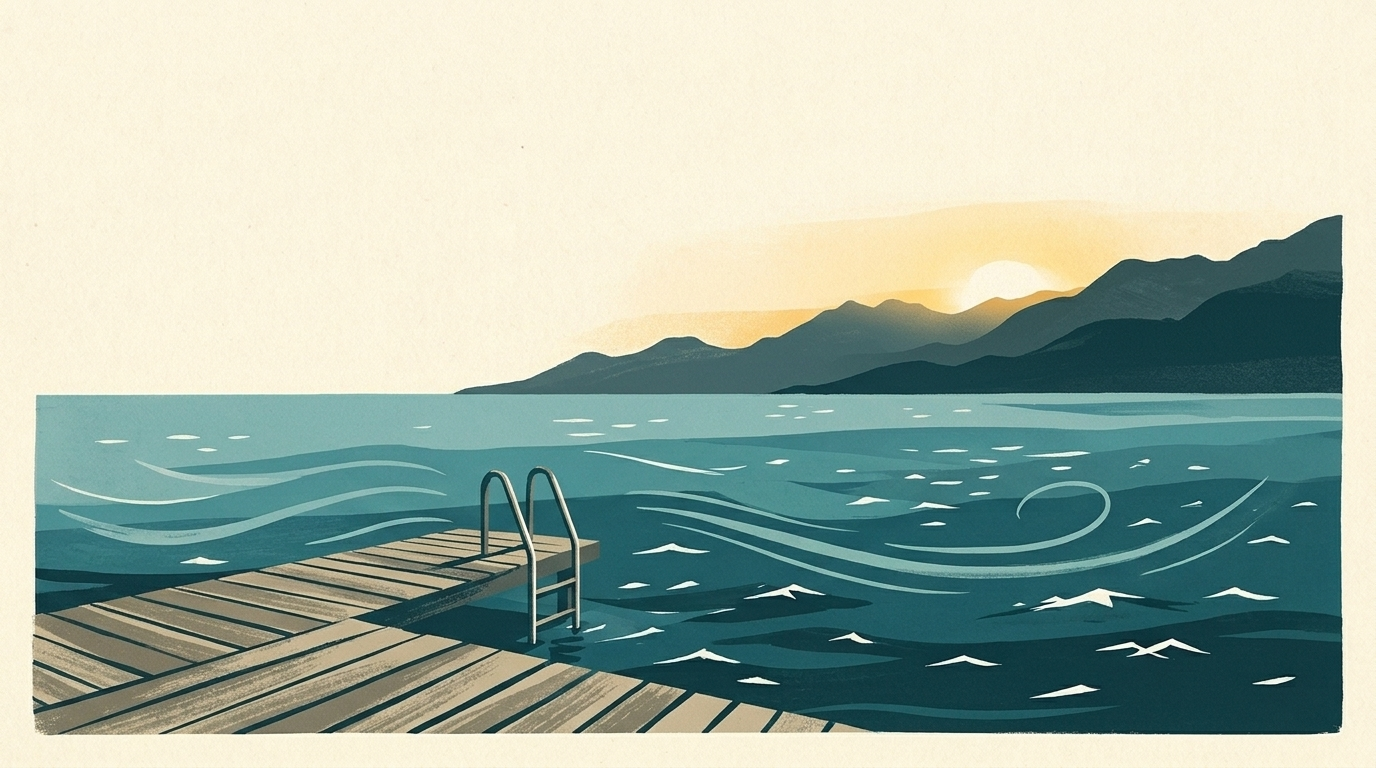
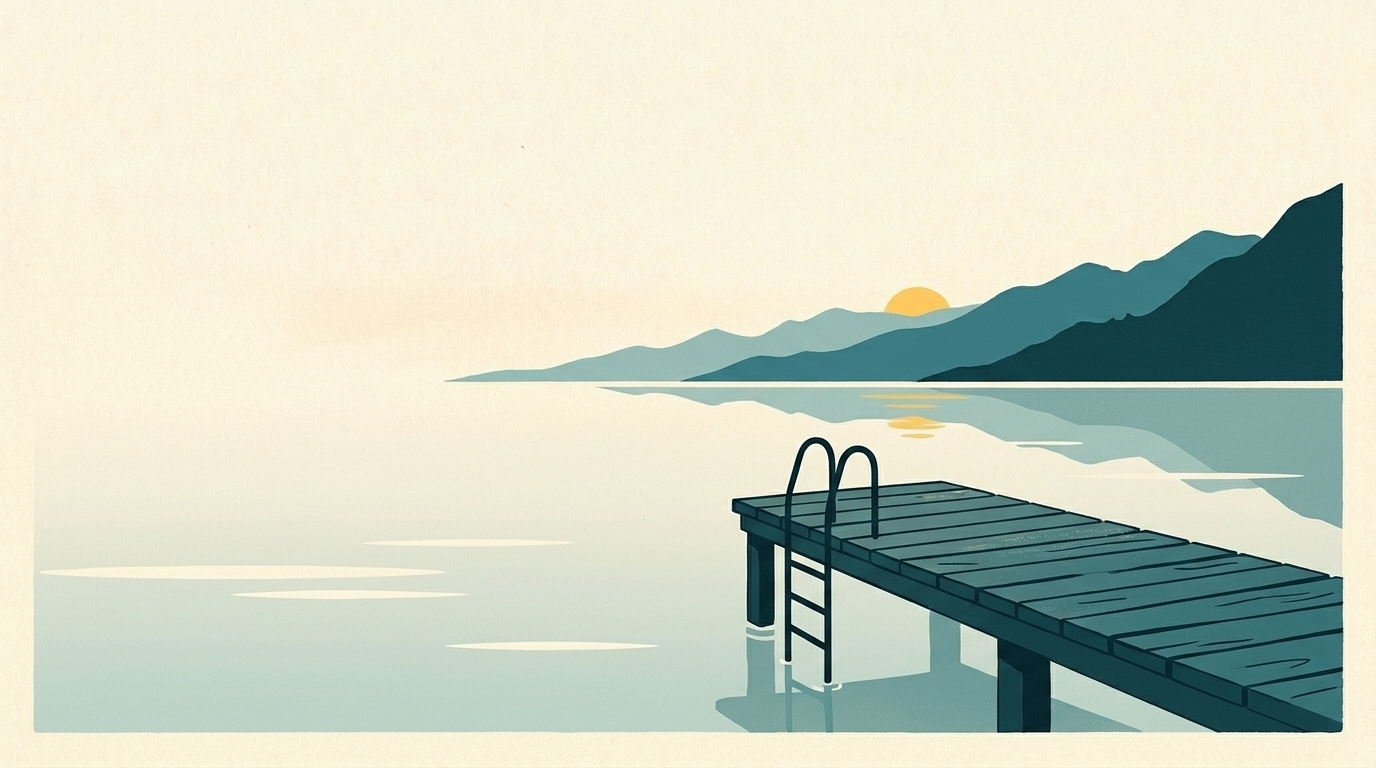
Images : og-image, saunas Zurich et Ägeri refaites en eau calme, relecture des 40 notée ; to-do : compteur de bains d'hiver remis à zéro
Claude-Session: https://claude.ai/code/session_01KRcimvPShRFCtuGJEa8x7J

diff --git a/TODO.md b/TODO.md
@@ -5,6 +5,7 @@
 - [ ] **Domaine** : monlac.ch est en ligne, « Enforce HTTPS » est coché (12 novembre 2026). Reste : ajouter www.mon-lac.ch au certificat Infomaniak.
 - [ ] **Icônes** : choisir les icônes définitives de la baignade et de la sortie en bateau.
 - [ ] **Vérification mensuelle des lieux** : relier le dépôt à la tâche planifiée dans claude.ai.
+- [ ] **Compteur de bains d'hiver remis à zéro** (signalé le 13 novembre 2026, à comprendre) : après des modifications, le compteur repart de 0. Les bains sont gardés dans le stockage local du navigateur (`localStorage`, clés `bains-liste-<saison>`, voir `index.html`, « Défi bain d'hiver »), et aucun code ne l'efface. Ce stockage est propre à chaque adresse : un compteur rempli sur monlac.ch n'existe pas sur une adresse de test (aperçu d'une session Claude, `localhost`, xiff.github.io, autre port), et inversement. C'est l'explication la plus probable. À vérifier : sur quelle adresse le compteur se vide ; navigation privée ; Safari iOS, qui efface le stockage d'un site non ouvert depuis 7 jours s'il n'est pas sur l'écran d'accueil ; réinstallation de l'app Android. Correctif durable : la synchronisation prévue avec les comptes (commentaire `shortcut:` dans le code) ; en attendant, une sauvegarde (exporter et importer la liste).
 - [ ] **Coordonnées à confirmer** : Corsier-Port et Thonon – Saint-Disdille.
 - [x] **Autres lacs** (12 novembre 2026) : 109 bars et restos, et 21 loueurs ajoutés (Neuchâtel 5, Bienne 4, Morat 1, Gruyère 3, Sion 2, Lugano 3, Majeur 4), chacun avec une source. Sources à fiabilité moyenne (annuaires torpille.ch, search.ch) pour Les Vikings, Alphasurf, Club Y-Plage, Domaine des Îles et Oasis : à remplacer par le site du loueur quand on le trouve.
   - [ ] Pas encore couverts : Cudrefin, Grandson (Nautic Plus : mentionné, sans page vérifiable), Brissago, Locarno côté kayak, le lac de Joux (aucun loueur cherché), RIVABIANCA à Lugano (lieu non confirmé), Kayak Lugano, Canoës Gruyère à Pont-en-Ogoz (fiche peu fiable). Horaires et prix non vérifiés : à confirmer auprès des loueurs, dans la prise de contact « affiliation ».

diff --git a/IMAGES-IA.md b/IMAGES-IA.md
@@ -59,7 +59,9 @@ Aucune page ne les utilise encore. Pour en refaire une, relance son bloc ci-dess
 Corrections faites et points à vérifier :
 - `portrait-joux` : refaite le 13 novembre 2026, la Dent de Vaulion est maintenant une crête boisée qui finit en falaise.
 - `portrait-constance` : refaite le 13 novembre 2026, sans phare ni drapeau (digue, voiliers, ferry).
-- Repères de paysage en général : je ne les ai pas comparés avec des photos.
+- `og-image`, `saunas-lac-de-zurich`, `portrait-aegeri` : refaites le 13 novembre 2026, l'eau était agitée (lignes de vent reprises de l'image `bise`) alors que la scène la veut calme. Pour une scène calme, prendre `portrait-hallwil` comme image de référence plutôt que `bise`.
+- Relecture des 40 en grand le 13 novembre 2026 : aucun texte, aucun visage, style homogène. Petits écarts acceptés : un drapeau suisse sur le bateau à vapeur de Lucerne (réaliste), une silhouette minuscule sur le bain de l'Utoquai, des graduations sans chiffres sur le thermomètre de `bienfaits-bain-froid`.
+- Repères de paysage : jugés plausibles (Niesen, Pilatus, San Salvatore, Valère et Tourbillon, Giessbach, île Saint-Pierre), mais je ne les ai pas comparés avec des photos.
 
 ## Thèmes du site
 
